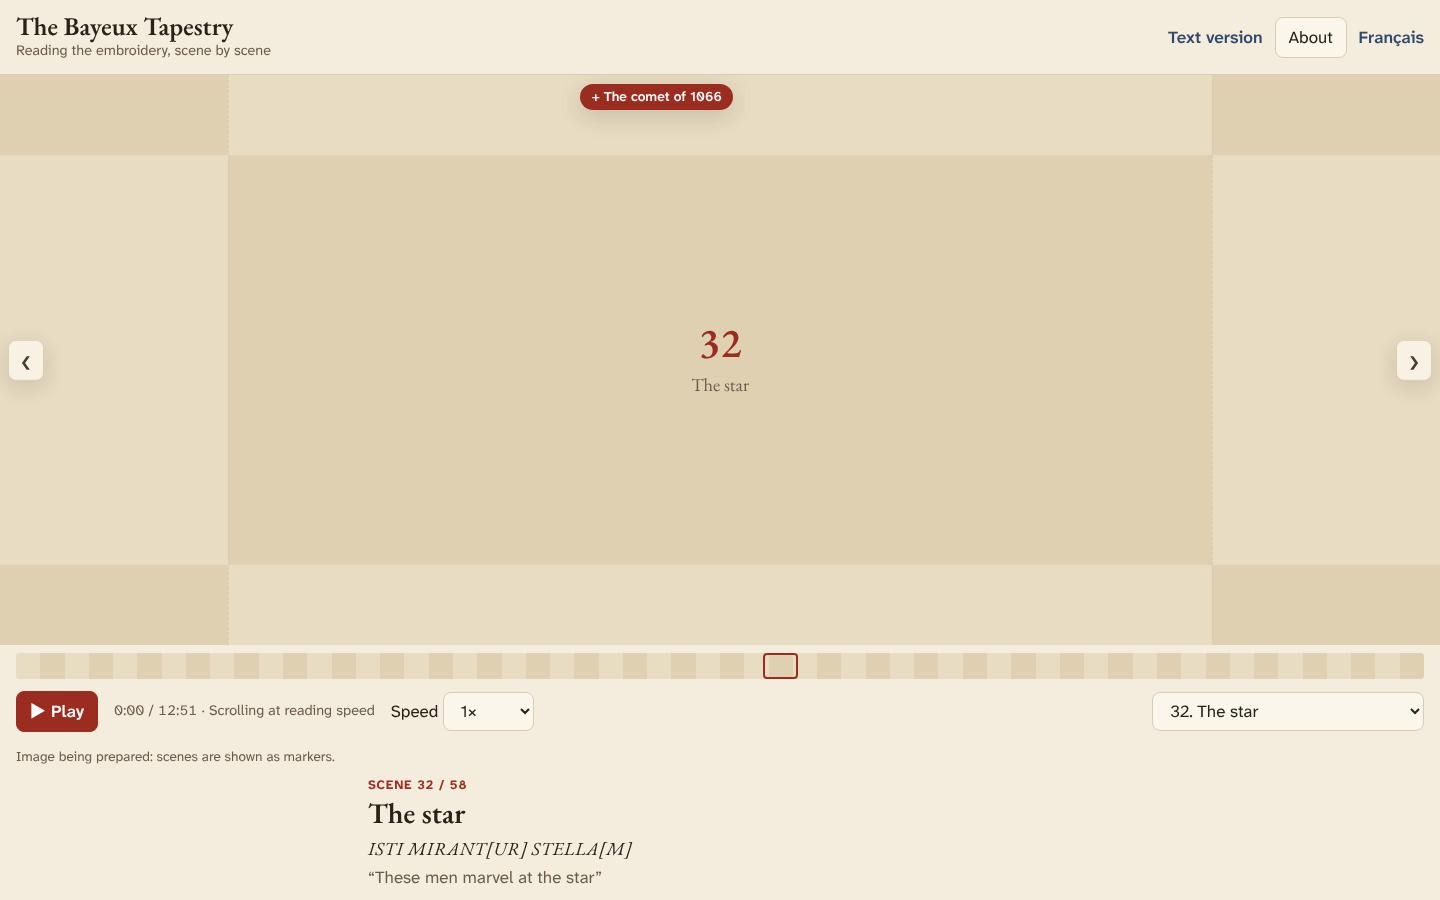
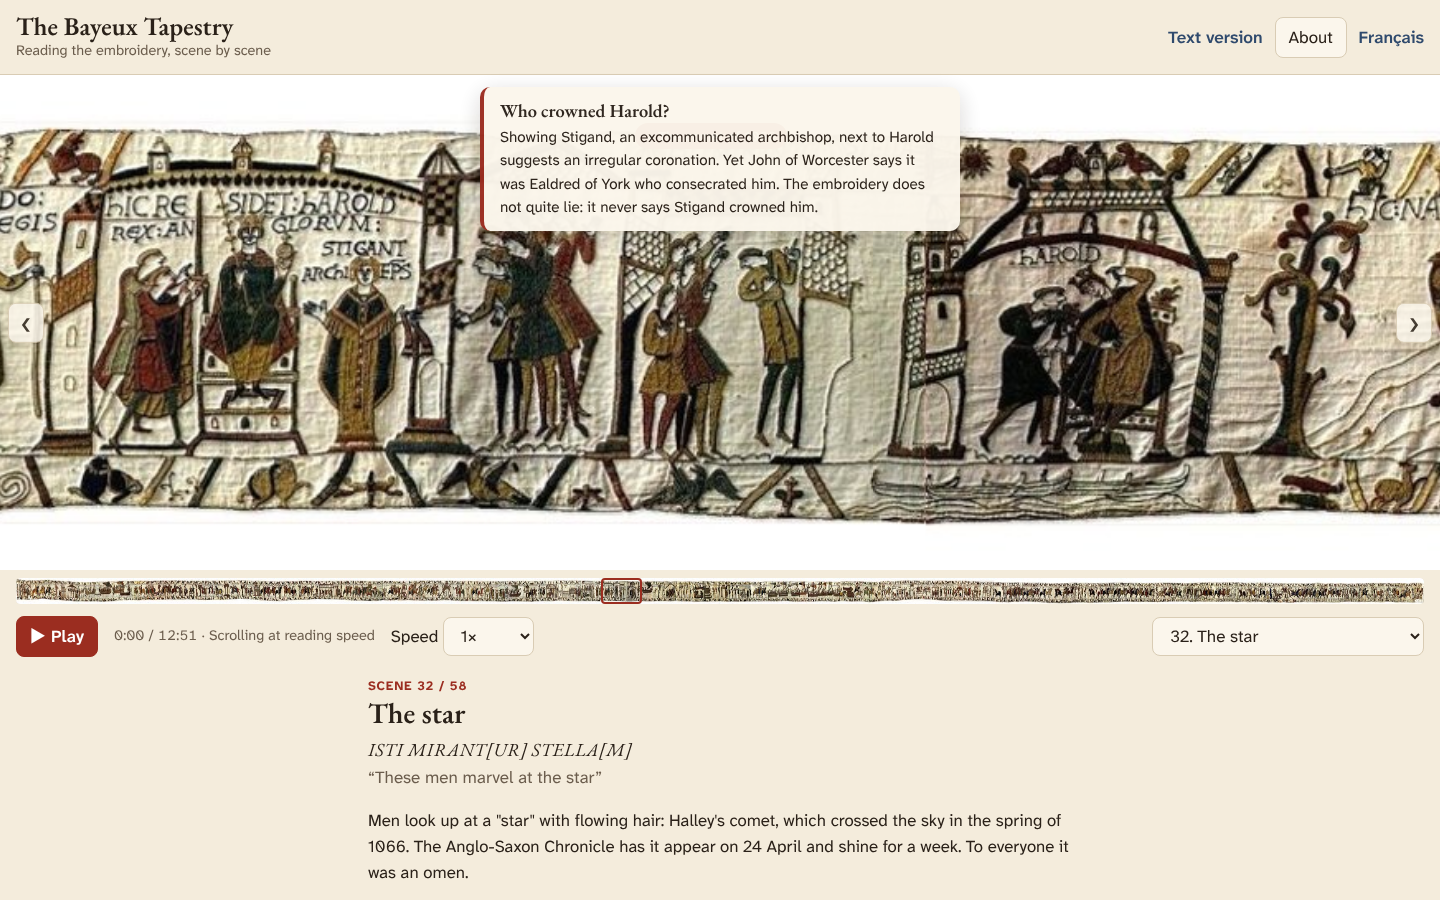
Calibrate the 58 scenes on the Commons panorama
Scene starts read off the image at captions and scene dividers; hotspot
boxes and story positions adjusted; white strip background to match the
image; the ghost-ships check resolved; screenshots of the real strip.

Claude-Session: https://claude.ai/code/session_01FvHjSPvBTgkvXVytX7VrTE

diff --git a/src/style.css b/src/style.css
@@ -66,6 +66,8 @@ button.icon { font-size: 1.5rem; line-height: 1; padding: 0.1rem 0.6rem; }
   overflow-x: auto; overflow-y: hidden; background: var(--placeholder-b);
   scrollbar-width: thin; touch-action: pan-x; cursor: grab;
 }
+/* The Commons panorama sits on white, so the strip does too. */
+.viewport:has(.tile) { background: #fff; }
 .track { position: relative; }
 .tile, .placeholder, .hotspot, .calibrate-marker { position: absolute; }
 .tile { display: block; user-select: none; -webkit-user-drag: none; }

diff --git a/PLAN.md b/PLAN.md
@@ -8,7 +8,7 @@ Milestones. Tick a box only when its "done when" criterion is met and CI is gree
   - [x] 58 scenes with tituli, translations and a draft narration script (FR/EN), each with sources
   - [x] reading-speed tour, cue editor (`?tool=cues`), calibration tool (`?tool=calibrate`)
   - [x] 13 story pop-ups, 3 sourced hotspots (oath, comet, Harold's death), bibliography, credits
-  - [ ] Commons panorama tiled (Image tiles workflow) and scene starts calibrated on it; story and hotspot positions adjusted
+  - [x] Commons panorama tiled (Image tiles workflow) and scene starts calibrated on it; story and hotspot positions adjusted
   - Done when the strip shows the real image with all 58 scenes placed, and screenshots are reviewed.
 - [ ] **M2 Paul's review**: every `check:` note resolved, sources confirmed (`status: checked`), texts flipped to `reviewed`.
 - [ ] **M3 narration**: FR and EN tracks recorded, cues exported, audio tour tested on phone and desktop.

diff --git a/docs/review.md b/docs/review.md
@@ -10,13 +10,12 @@ once its reference is confirmed.
 - Stories: 0/13 reviewed, 0/13 language-reviewed
 - Hotspots: 0/3 reviewed, 0/3 language-reviewed
 - Sources: 2/25 checked
-- Image layer `commons`: tiles available, scene positions not calibrated (even split)
+- Image layer `commons`: tiles available, scenes calibrated
 
 ## Facts to check
 
 - Scene 9: Confirm the figure listening behind the column (Wilson's commentary).
 - Scene 12: Confirm the messenger to William is shown with a moustache (English) and the reverse reading of scenes 10-12.
-- Scene 33: Confirm the position of the 'ghost ships' in the lower border under Harold.
 - Scene 41: Check Wadard among Odo's tenants in Domesday Book (Open Domesday or the Phillimore edition).
 - Scene 42: Check the 'table of shields' reading.
 - Scene 49: Check Vital among Odo's tenants in Domesday Book.
